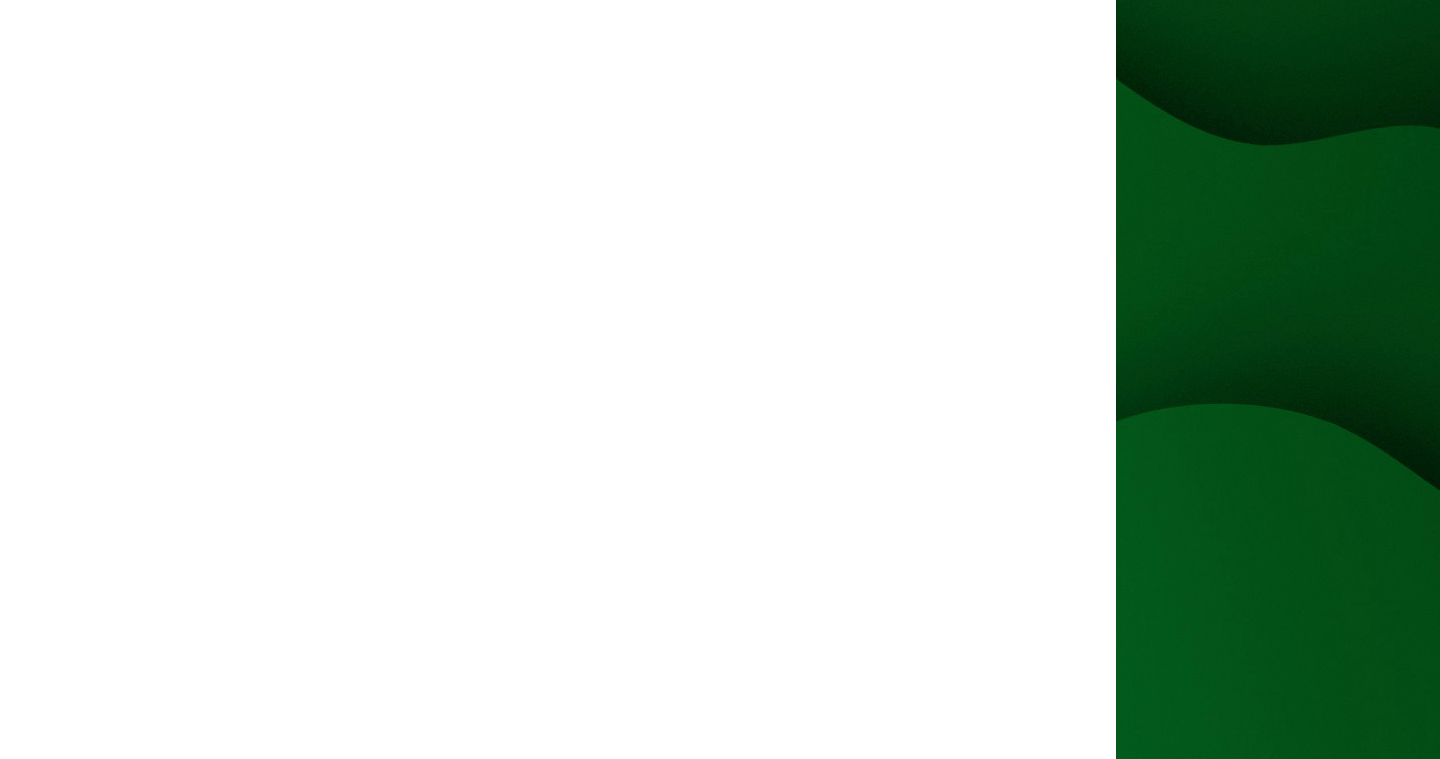
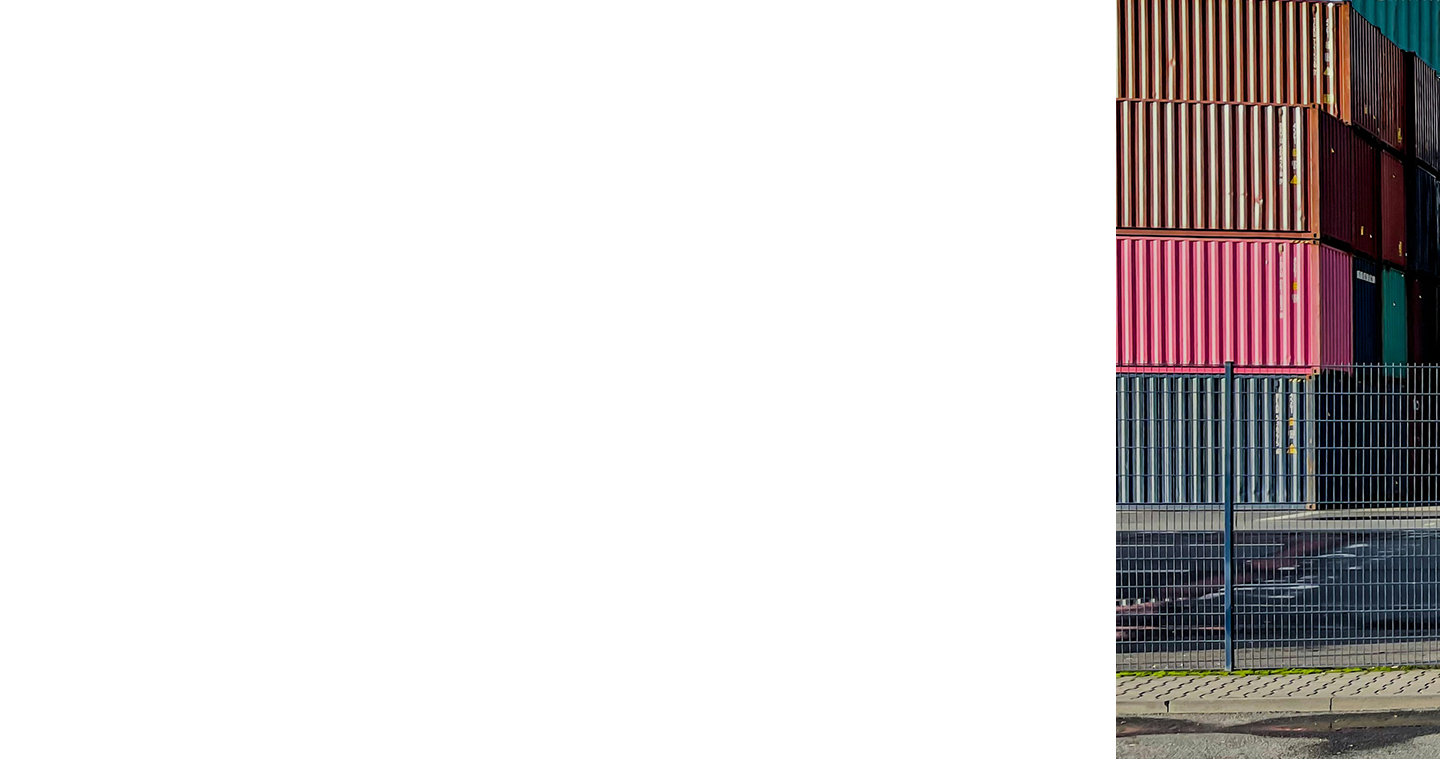
emailSetup

Changed region(s): [[0.75, 0.0, 1.0, 1.0]]

diff --git a/components/Footer.jsx b/components/Footer.jsx
@@ -23,32 +23,7 @@ const Footer = () => {
                             <Image src = '/assets/Logo/LogoF.png' alt = 'logo_img' width = {200} height = {66}/>
                         </Link>
                     </div>
-                    <div className = 'flex-1 grid grid-cols-1 xl:grid-cols-3 gap-[50px] mb-8 xl:mb-16'>
-                        <div>
-                            <h4 className = 'font-semibold mb-5'>Щось :</h4>
-                            <ul className = 'flex flex-col gap-y-6 text-sm'>
-                                <li>
-                                    <Link href = '/'>
-                                        Бла-бла
-                                    </Link>
-                                </li>
-                                <li>
-                                    <Link href = '/'>
-                                        Бла-бла Бла-бла
-                                    </Link>
-                                </li>
-                                <li>
-                                    <Link href = '/'>
-                                        Бла-бла Бла-бла Бла-бла
-                                    </Link>
-                                </li>
-                                <li>
-                                    <Link href = '/'>
-                                        Бла-бла Бла-бла Бла-бла Бла-бла Бла-бла
-                                    </Link>
-                                </li>
-                            </ul>
-                        </div>
+                    <div className = 'flex-1 grid  grid-cols-1 xl:grid-cols-3 gap-[50px] mb-8 xl:mb-16'>
                         <div>
                             <h4 className = 'font-semibold mb-4'>Послуги :</h4>
                             <ul className = 'flex flex-col gap-y-6 text-sm'>
@@ -74,7 +49,7 @@ const Footer = () => {
                                 </li>
                             </ul>
                         </div>
-                        <div>
+                        <div className=''>
                             <h4 className = 'font-semibold mb-5'>Соц.мережі :</h4>
                             <ul className = 'flex flex-col gap-y-6 text-sm'>
                                 <li>
@@ -90,11 +65,6 @@ const Footer = () => {
                                 <li>
                                     <Link href = '/'>
                                         TripAdvisor
-                                    </Link>
-                                </li>
-                                <li>
-                                    <Link href = '/'>
-                                        Twitter(ak dead)
                                     </Link>
                                 </li>
                             </ul>

diff --git a/components/ContactForm.jsx b/components/ContactForm.jsx
@@ -54,7 +54,7 @@ const ContactForm = () => {
                             className = "text-green"
                             placeholder = "Ім'я/Компанія"
                             type = "text"
-                            name = "_firstname"
+                            name = "_name"
                             required
                         />
                         <input
@@ -67,8 +67,8 @@ const ContactForm = () => {
                         <input
                             className = "text-green"
                             placeholder = "Телефон"
-                            type = "text"
-                            name= "_lastname"
+                            type = "tel"
+                            name= "_phone"
                             required
                         />
                         <input
